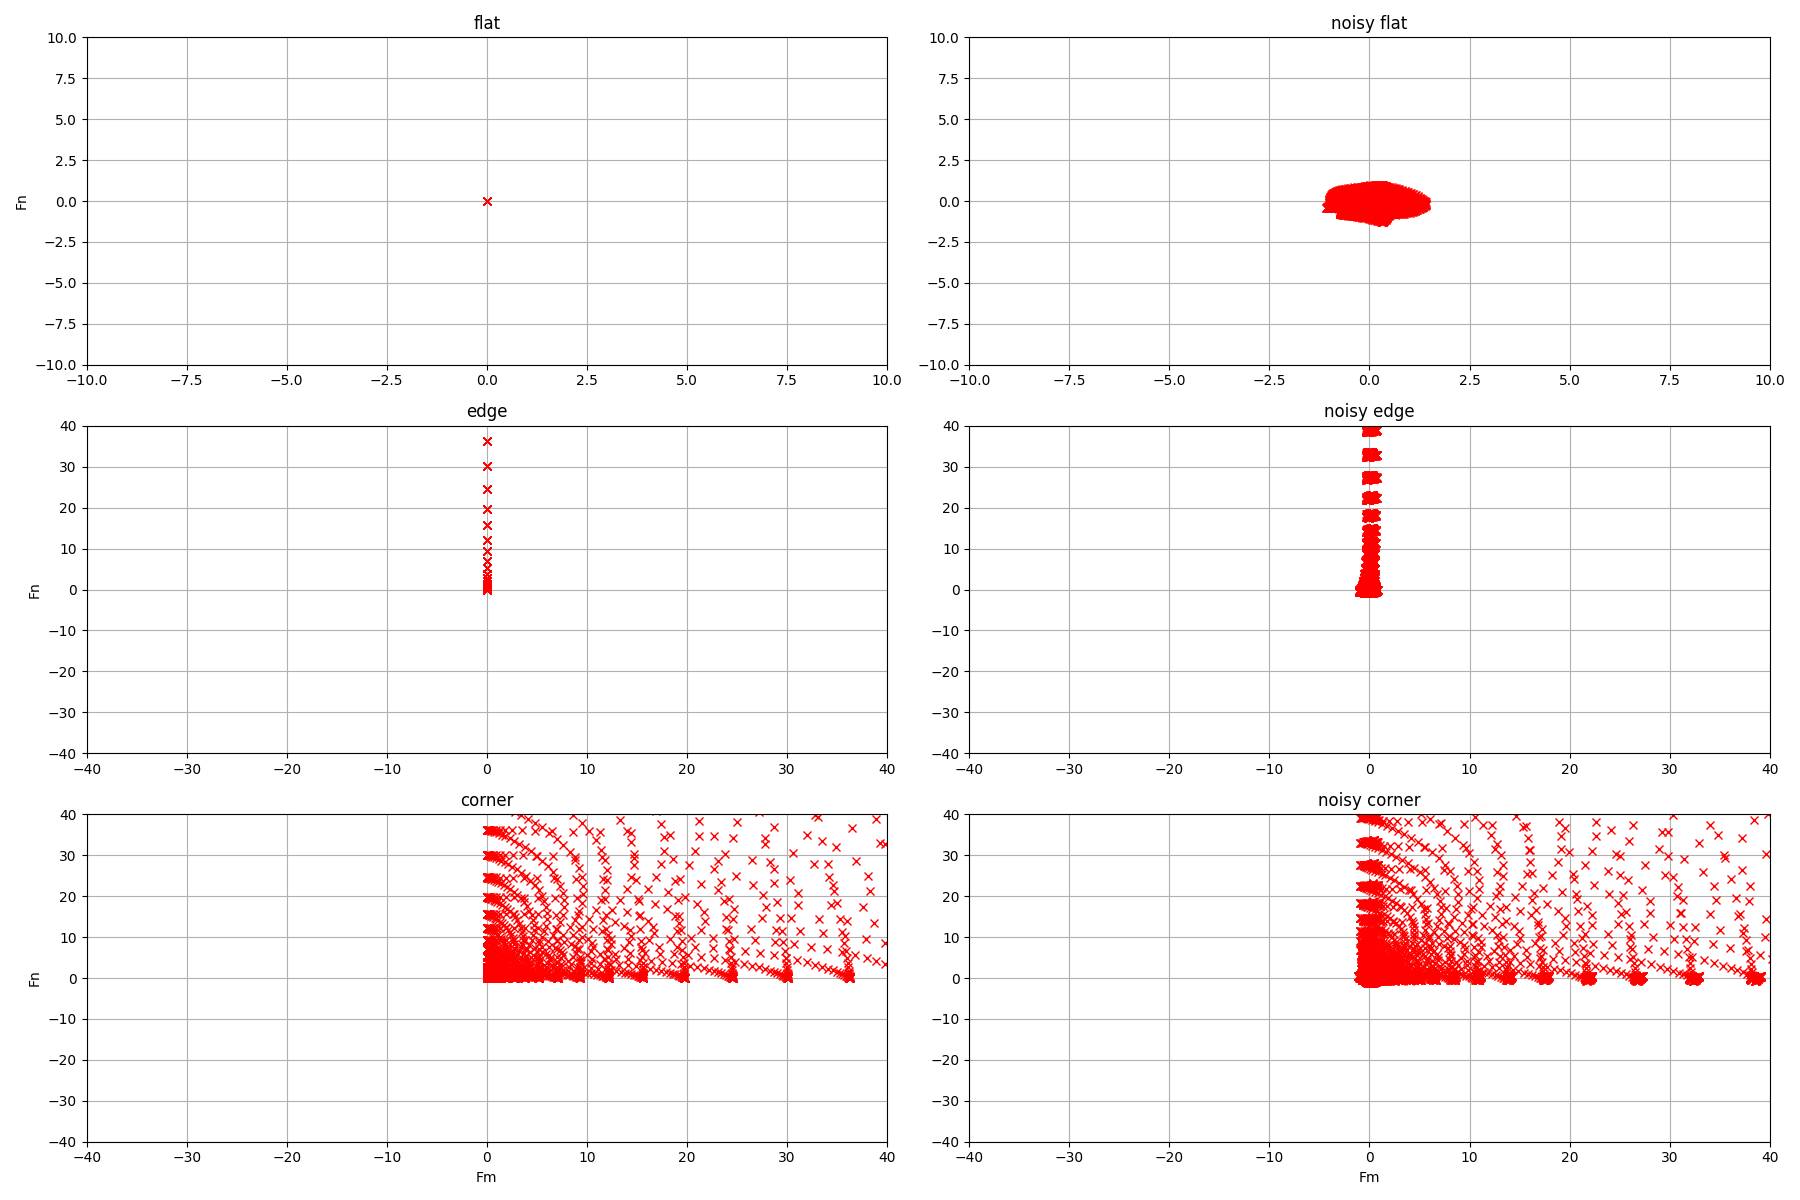
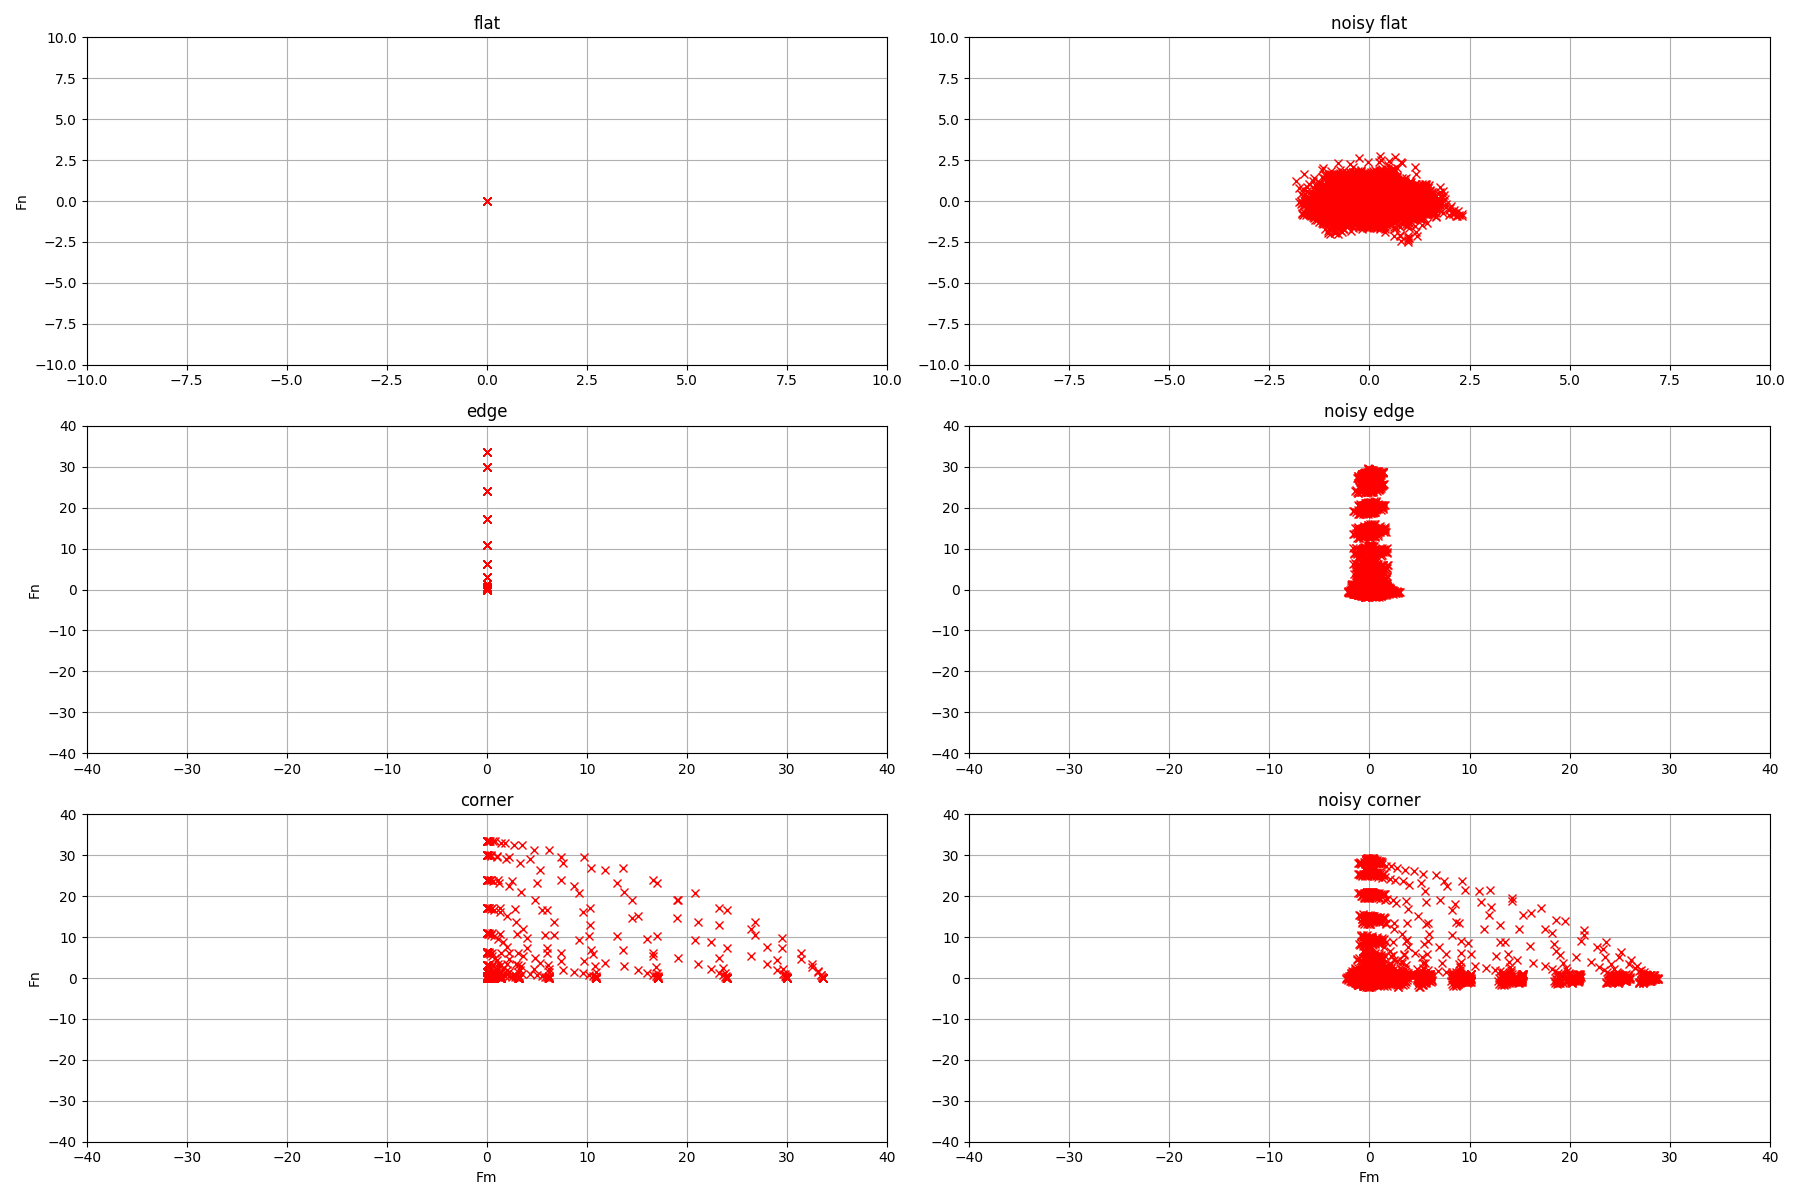
Update lab 6 progress

diff --git a/lab06/lab06.py b/lab06/lab06.py
@@ -28,13 +28,9 @@ def add_noise(img: np.ndarray, dev: Union[int, float]) -> np.ndarray:
 
 def compute_derivatives( img: np.ndarray,sigma: Union[int, float] = 3) -> Tuple[np.ndarray, np.ndarray]:
     assert isinstance(img, np.ndarray) and isinstance(sigma, (int, float))
+    fm = gaussian_filter(img, sigma=(sigma, sigma), order=(0, 1))
 
-    # Gaussian smoothing before gradient
-    sm = gaussian_filter(img, sigma=sigma)
-
-    # Sobel derivatives (consistent with Harris)
-    fm = cv2.Sobel(sm, cv2.CV_32F, 1, 0, ksize=3)
-    fn = cv2.Sobel(sm, cv2.CV_32F, 0, 1, ksize=3)
+    fn = gaussian_filter(img, sigma=(sigma, sigma), order=(1, 0))
 
     return fm, fn
 
@@ -69,9 +65,9 @@ def window_img(
 
     return w_fm, w_fn, img_with_frame
 
-def ex61(sigma):
+def ex61(dev, sigma):
     img = create_test_img(800,800)
-    n_img = add_noise(img, 30)
+    n_img = add_noise(img, dev)
 
     fm, fn = compute_derivatives(img, sigma)
     fm_n, fn_n = compute_derivatives(n_img, sigma)
@@ -88,9 +84,9 @@ def ex61(sigma):
 
     # noisy image
     n_img_uint8 = np.clip(n_img, 0, 255).astype(np.float32)
-    w_fm4, w_fn4, img4 = window_img(flat, n_img_uint8, fm_n, fn_n)
-    w_fm5, w_fn5, img5 = window_img(edge, n_img_uint8, fm_n, fn_n)
-    w_fm6, w_fn6, img6 = window_img(corner, n_img_uint8, fm_n, fn_n)
+    w_fm4, w_fn4, img4 = window_img(flat, img_uint8, fm_n, fn_n)
+    w_fm5, w_fn5, img5 = window_img(edge, img_uint8, fm_n, fn_n)
+    w_fm6, w_fn6, img6 = window_img(corner, img_uint8, fm_n, fn_n)
 
     return w_fm1, w_fn1, img1, w_fm2, w_fn2, img2, w_fm3, w_fn3, img3, w_fm4, w_fn4, img4, w_fm5, w_fn5, img5, w_fm6, w_fn6, img6, img, n_img
 
@@ -230,10 +226,10 @@ def exercise062_plot(w_fm1, w_fn1, img1, w_fm2, w_fn2, img2, w_fm3, w_fn3, img3,
     plt.close()
 
 
-w_fm1, w_fn1, img1, w_fm2, w_fn2, img2, w_fm3, w_fn3, img3, w_fm4, w_fn4, img4, w_fm5, w_fn5, img5, w_fm6, w_fn6, img6, img, n_img = ex61(30)
+w_fm1, w_fn1, img1, w_fm2, w_fn2, img2, w_fm3, w_fn3, img3, w_fm4, w_fn4, img4, w_fm5, w_fn5, img5, w_fm6, w_fn6, img6, img, n_img = ex61(3, 30)
 exercise061_plot(w_fm1, w_fn1, img1, w_fm2, w_fn2, img2, w_fm3, w_fn3, img3, w_fm4, w_fn4, img4, w_fm5, w_fn5, img5, w_fm6, w_fn6, img6, img, n_img)
 
-w_fm1, w_fn1, img1, w_fm2, w_fn2, img2, w_fm3, w_fn3, img3, w_fm4, w_fn4, img4, w_fm5, w_fn5, img5, w_fm6, w_fn6, img6, img, n_img = ex61(8)
+w_fm1, w_fn1, img1, w_fm2, w_fn2, img2, w_fm3, w_fn3, img3, w_fm4, w_fn4, img4, w_fm5, w_fn5, img5, w_fm6, w_fn6, img6, img, n_img = ex61(50, 3)
 exercise062_plot(w_fm1, w_fn1, img1, w_fm2, w_fn2, img2, w_fm3, w_fn3, img3, w_fm4, w_fn4, img4, w_fm5, w_fn5, img5, w_fm6, w_fn6, img6, img, n_img)
 
 def compute_harris_corners(
@@ -385,9 +381,6 @@ def detect_corners(r: np.ndarray, threshold: Union[int, float] = 0.5) -> np.ndar
 
     # Find candidates where R > threshold (corner candidates)
     corners_candidates = r > threshold
-
-    # Get the coordinates of corner candidates
-    # np.where returns (row_indices, col_indices) which correspond to (y, x) or (n, m)
     corner_pos = np.argwhere(corners_candidates)
 
     return corner_pos
@@ -524,8 +517,148 @@ def import_and_convert_img(img_path: str, img_size: int = 800) -> np.ndarray:
 
 
 
-chessboard_path = "chessboard_crooked.png"  # Update with your actual path
+def detect_corners_improved(r: np.ndarray, threshold_ratio: float = 0.01, window_size: int = 5) -> np.ndarray:
+    """
+    Improved corner detection with adaptive thresholding and non-maximum suppression
+    """
+    from scipy.ndimage import maximum_filter
+
+    # Adaptive threshold based on maximum R value
+    threshold = threshold_ratio * r.max()
+
+    # Non-maximum suppression
+    local_max = maximum_filter(r, size=window_size)
+    corners = (r == local_max) & (r > threshold)
+
+    corner_pos = np.argwhere(corners)
+    return corner_pos
+
+def visualize_chessboard_harris():
+    """Create complete Harris corner detection visualization for chessboard"""
+
+    # Load and convert chessboard image
+    chessboard_path = "chessboard_crooked.png"
+    chess_img = import_and_convert_img(chessboard_path)
+
+    fm_chess, fn_chess = compute_derivatives(chess_img, sigma=3)
+
+    # Compute Harris corner response
+    mmm, mmn, mnm, mnn, det_m, tra_m, r = compute_harris_corners(fm_chess, fn_chess, k=0.04, sigma=3)
+
+    # Detect corners using improved method
+    corner_pos = detect_corners_improved(r, threshold_ratio=0.001, window_size=5)
 
 
-chess_img = import_and_convert_img(chessboard_path, img_size=800)
+    # Create the visualization (2 rows, 2 columns + text area)
+    fig = plt.figure(figsize=(14, 10))
+
+    # Row 1, Col 1: Original chessboard image
+    ax1 = plt.subplot(2, 2, 1)
+    ax1.set_title("image", fontsize=14)
+    ax1.axis("off")
+    ax1.imshow(chess_img, cmap='gray', vmin=0, vmax=255)
+
+    #  Corner response R
+    ax2 = plt.subplot(2, 2, 2)
+    ax2.set_title("corner response R", fontsize=14)
+    ax2.axis("off")
+    # Normalize R for better visualization
+    r_display = r.copy()
+    r_display[r_display < 0] = 0  # Clip negative values
+    ax2.imshow(r_display, cmap='gray')
+
+    # Determinant
+    ax3 = plt.subplot(2, 2, 3)
+    ax3.set_title("det(M)", fontsize=14)
+    ax3.axis("off")
+    det_display = det_m.copy()
+    det_display[det_display < 0] = 0  # Clip negative values
+    ax3.imshow(det_display, cmap='gray')
+
+    # Trace
+    ax4 = plt.subplot(2, 2, 4)
+    ax4.set_title("trace(M)", fontsize=14)
+    ax4.axis("off")
+    ax4.imshow(tra_m, cmap='gray')
+
+    plt.tight_layout()
+    #plt.savefig("chessboard_harris_analysis.png", dpi=150, bbox_inches='tight')
+    plt.close()
+    #print("Harris analysis saved: chessboard_harris_analysis.png")
+
+    # Create second figure: Detected corners
+    fig2 = plt.figure(figsize=(10, 10))
+
+    ax5 = plt.subplot(1, 1, 1)
+    ax5.set_title("corners in image", fontsize=16)
+    ax5.axis("off")
+    ax5.imshow(chess_img, cmap='gray', vmin=0, vmax=255)
+
+    # Plot detected corners as red circles with black centers
+    ax5.plot(corner_pos[:, 1], corner_pos[:, 0], 'ro',
+             markersize=8, markerfacecolor='red',
+             markeredgecolor='black', markeredgewidth=1.5)
+
+    # Add text annotation
+    ax5.text(0.02, 0.98, f"{len(corner_pos)} corners found",
+             transform=ax5.transAxes, fontsize=14,
+             verticalalignment='top',
+             bbox=dict(boxstyle='round', facecolor='white', alpha=0.8))
+
+    plt.tight_layout()
+    #plt.savefig("chessboard_corners_detected.png", dpi=150, bbox_inches='tight')
+    plt.close()
+    #print("Corner detection saved: chessboard_corners_detected.png")
+
+    # Create combined figure like in reference
+    fig_combined = plt.figure(figsize=(14, 14))
+
+    # Top row
+    ax1 = plt.subplot(3, 2, 1)
+    ax1.set_title("image", fontsize=14)
+    ax1.axis("off")
+    ax1.imshow(chess_img, cmap='gray')
+
+    ax2 = plt.subplot(3, 2, 2)
+    ax2.set_title("corner response R", fontsize=14)
+    ax2.axis("off")
+    ax2.imshow(r, cmap='gray')
+
+    # Middle row
+    ax3 = plt.subplot(3, 2, 3)
+    ax3.set_title("det(M)", fontsize=14)
+    ax3.axis("off")
+    ax3.imshow(det_m, cmap='gray')
+
+    ax4 = plt.subplot(3, 2, 4)
+    ax4.set_title("trace(M)", fontsize=14)
+    ax4.axis("off")
+    ax4.imshow(tra_m, cmap='gray')
+
+    # Bottom row - spanning both columns
+    ax5 = plt.subplot(3, 1, 3)
+    ax5.set_title("corners in image", fontsize=16)
+    ax5.axis("off")
+    ax5.imshow(chess_img, cmap='gray')
+    ax5.plot(corner_pos[:, 1], corner_pos[:, 0], 'ro',
+             markersize=6, markerfacecolor='red',
+             markeredgecolor='black', markeredgewidth=1)
+
+    # Add text annotation in the right area
+    ax5.text(1.05, 0.5, f"{len(corner_pos)} corners found",
+             transform=ax5.transAxes, fontsize=14,
+             verticalalignment='center',
+             bbox=dict(boxstyle='round', facecolor='wheat', alpha=0.5))
+
+    plt.tight_layout()
+    plt.savefig("chessboard_analysis.png", dpi=150, bbox_inches='tight')
+    plt.close()
+
+
+    return chess_img, r, corner_pos
+
+
+# Run the complete chessboard analysis
+chess_img, r_chess, corners_chess = visualize_chessboard_harris()
+
 
